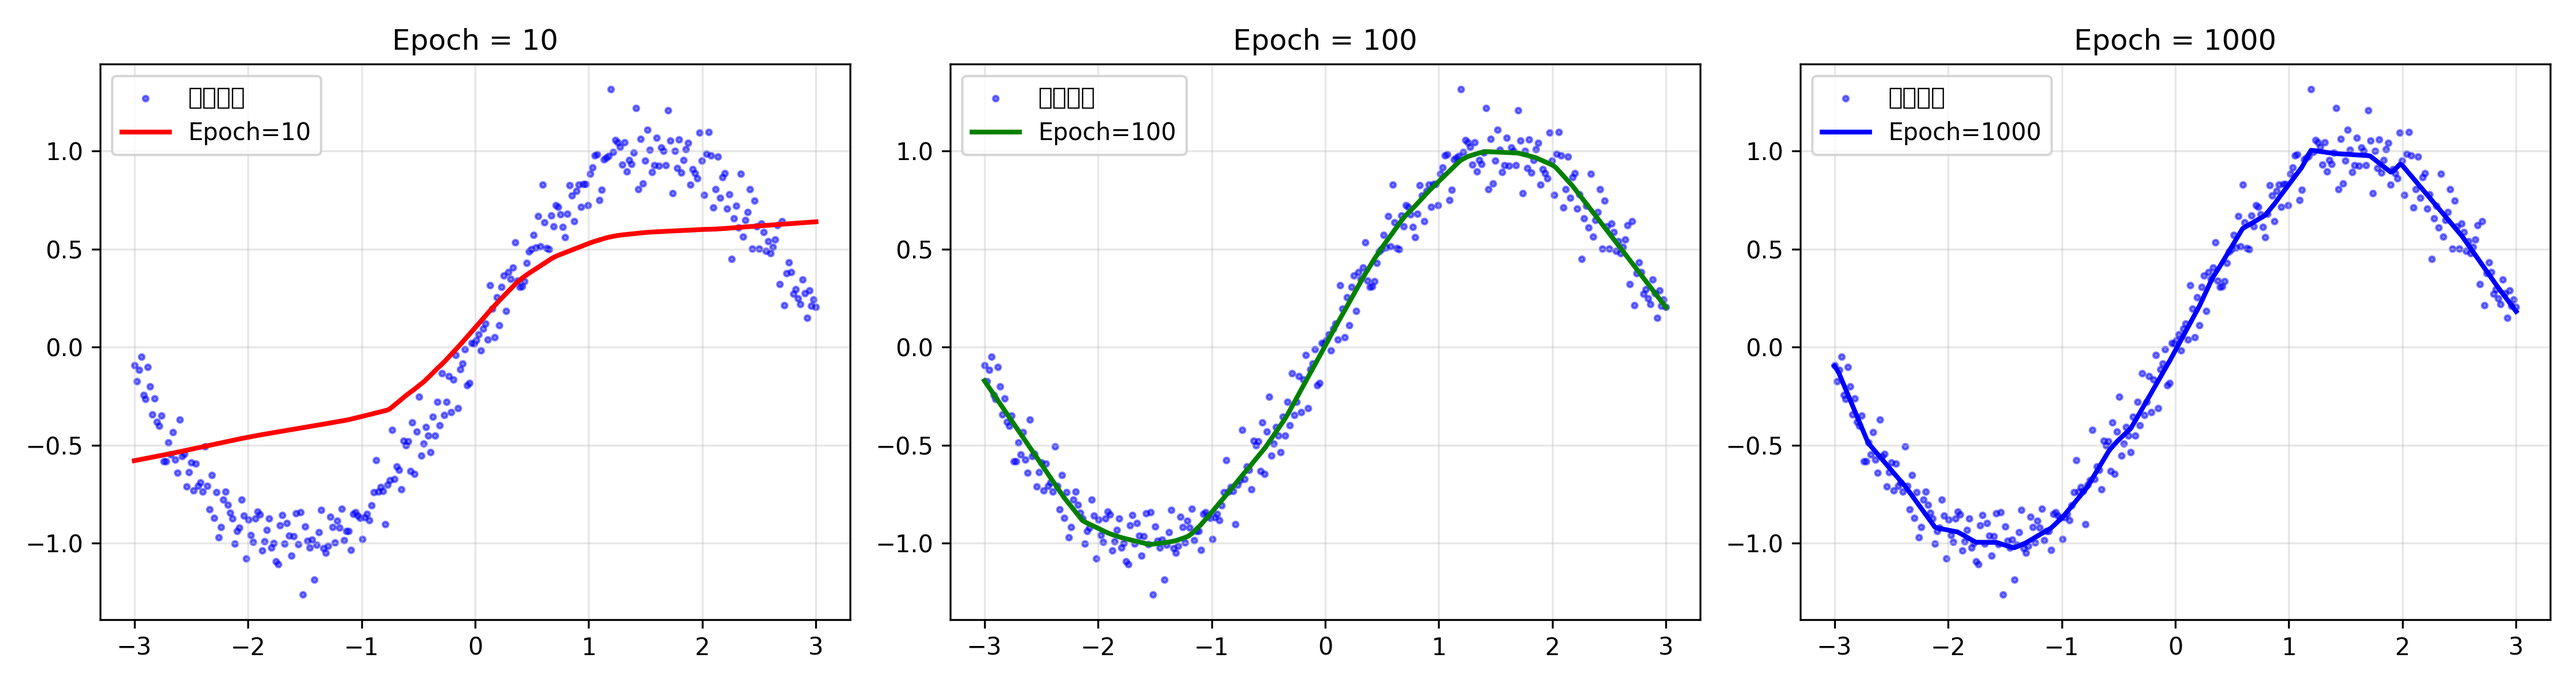
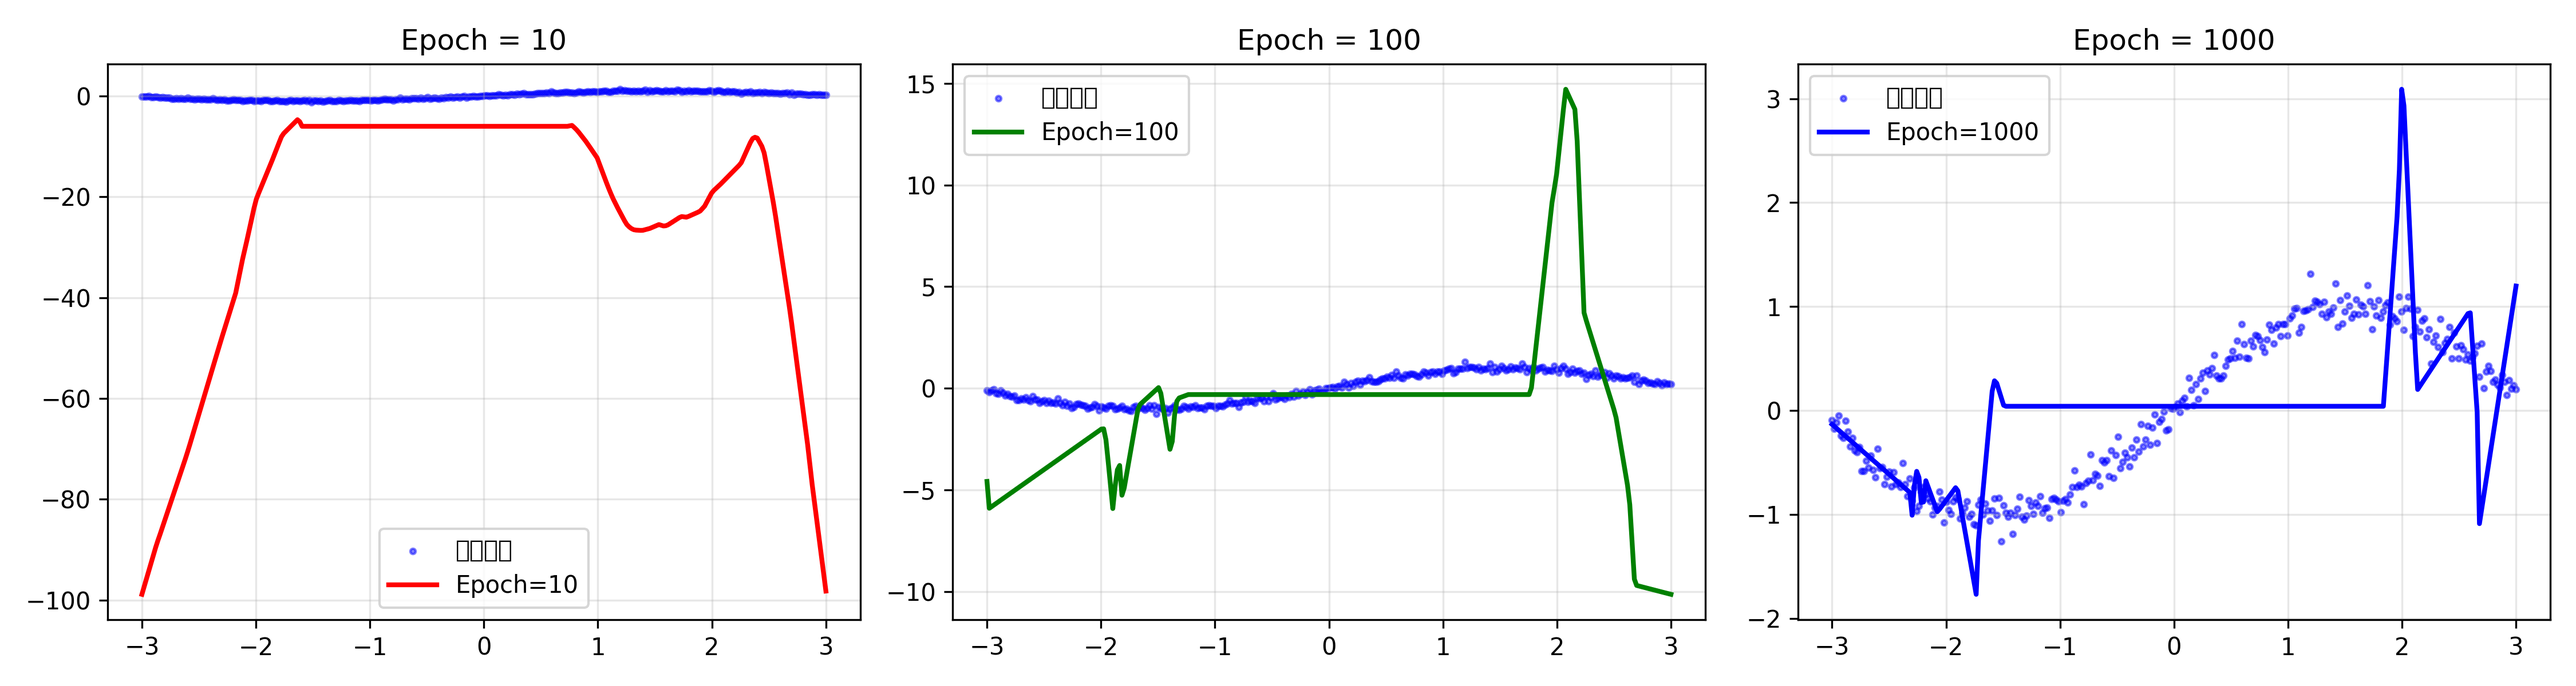
调整学习率从0.01到0.001

diff --git a/fit_function.py b/fit_function.py
@@ -56,7 +56,7 @@ def train():
 
     model = MLP()
     criterion = nn.MSELoss()
-    optimizer = optim.Adam(model.parameters(), lr=0.01)
+    optimizer = optim.Adam(model.parameters(), lr=1)
 
     pred_dict = {10: None, 100: None, 1000: None}
 
